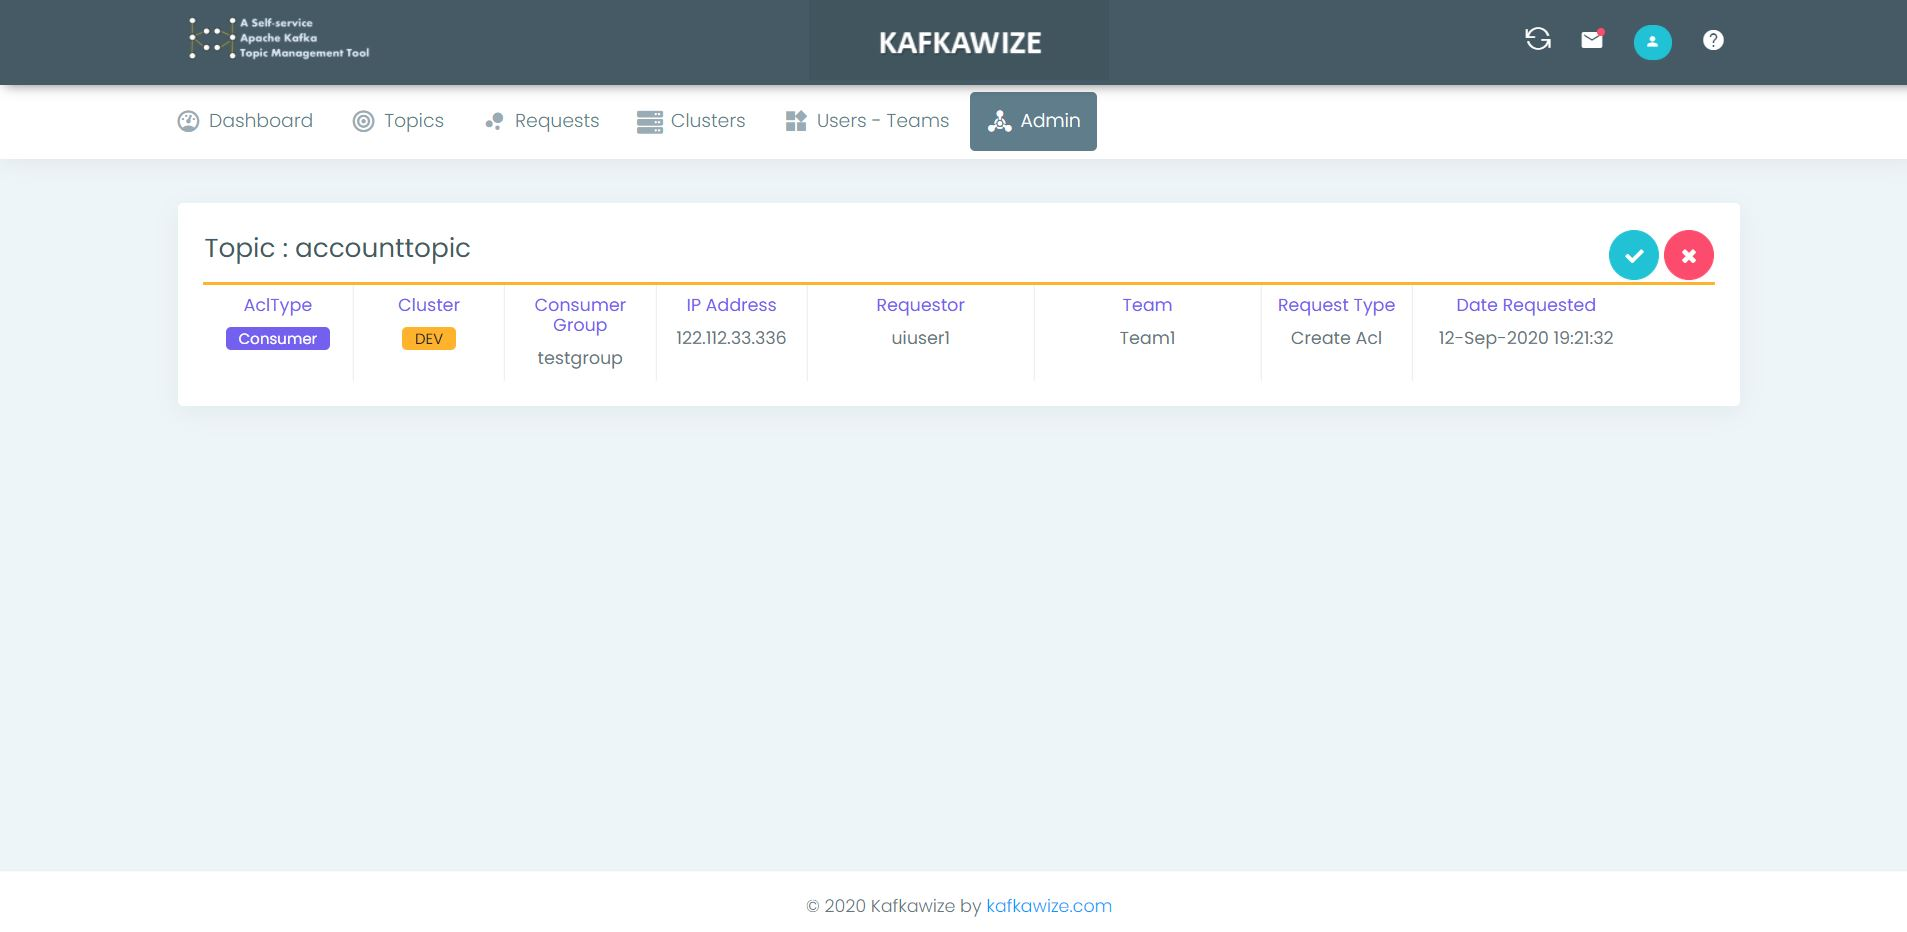
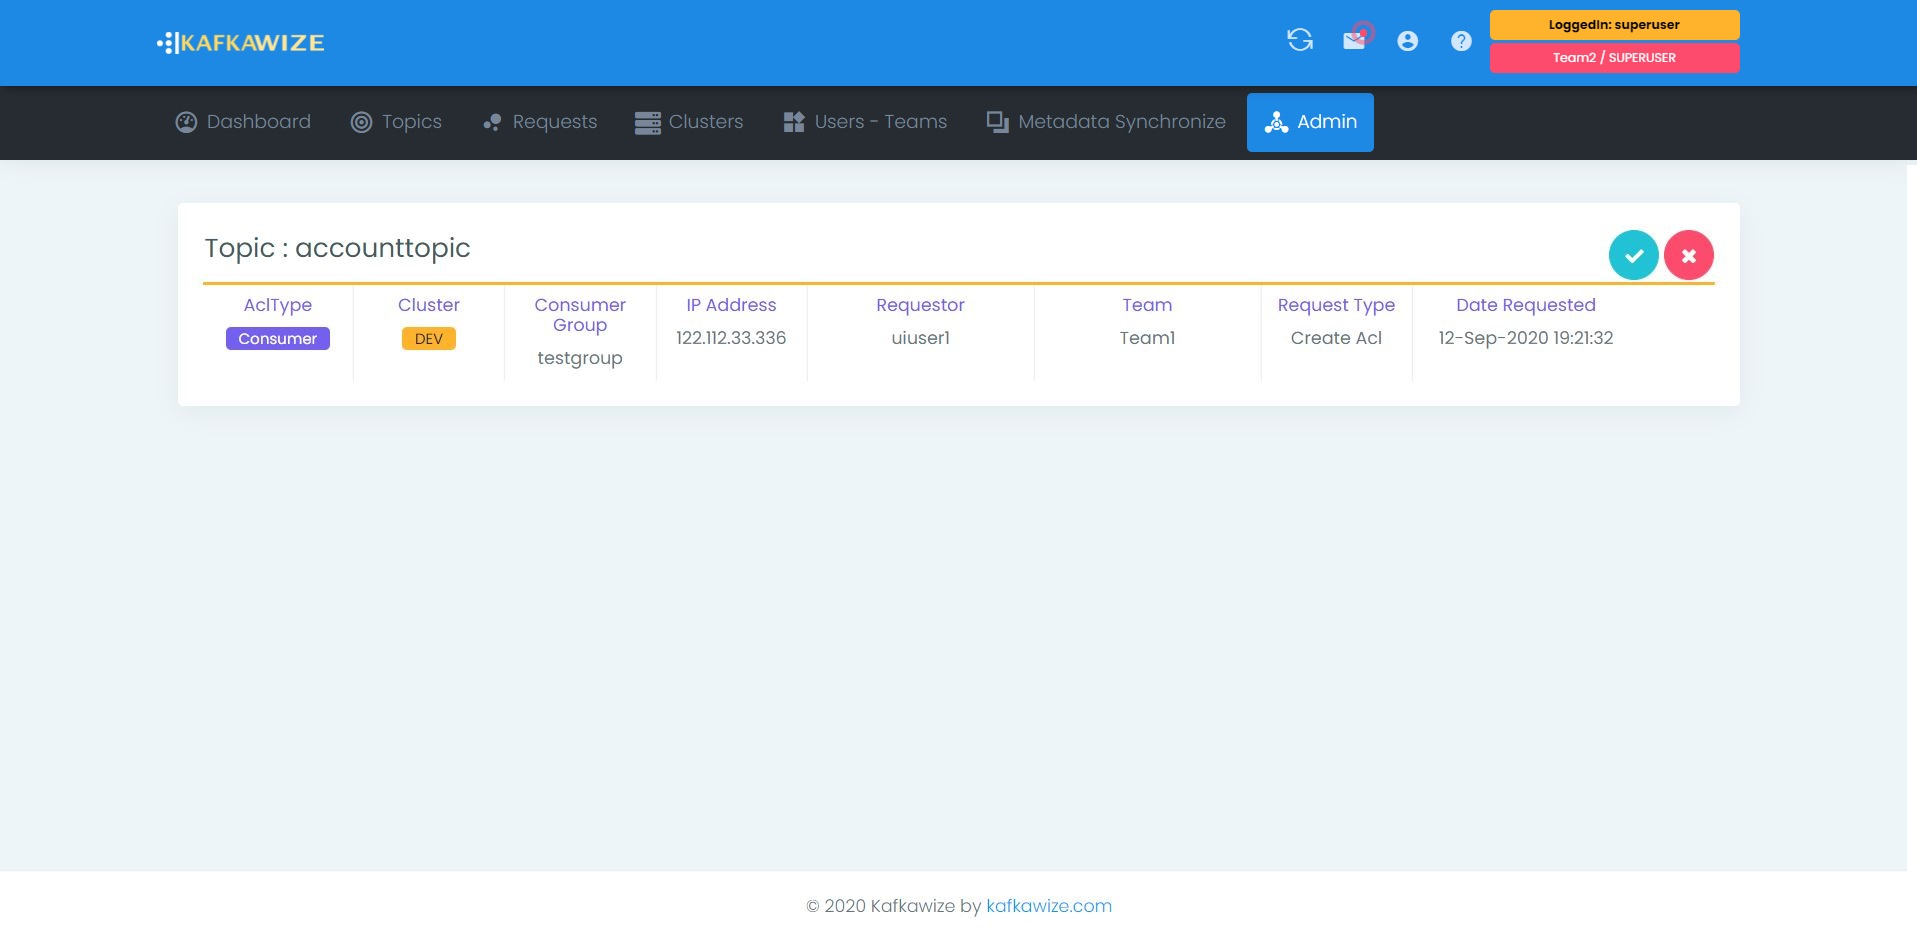
Update for 4.4 changes

diff --git a/3.1/docs/conf.py b/3.1/docs/conf.py
@@ -51,9 +51,9 @@ copyright = u'2018, Kafkawize'
 # built documents.
 #
 # The short X.Y version.
-version = '4.3'
+version = '4.4'
 # The full version, including alpha/beta/rc tags.
-release = '4.3'
+release = '4.4'
 
 # The language for content autogenerated by Sphinx. Refer to documentation
 # for a list of supported languages.

diff --git a/3.1/docs/releasenotes.rst b/3.1/docs/releasenotes.rst
@@ -1,6 +1,149 @@
 Release Notes
 =============
 
-Kafkawize 4.3 release notes
+Kafkawize 4.4
 
-Changes include UI and BE code improvements.
+1. Changes include improved User interface and few bug fixes.
+2. Metadata Synchronize option has been removed
+3. SSL connectivity to Kafka cluster has been removed
+4. Dashboard updated to show logged in Username, Team and Role
+5. Users can now only 4 environments DEV, TST, ACC and PRD. Hierarchy is defined in properties file.
+6. New model for UserInfo class is introduced to fix a password bug
+7. Password is not stored as encrypted text
+8. Validations bug in acls and topics requests
+9. Connect to Kafka clusters during start of Kafkawize
+
+----------------------------------------------------------------
+
+Kafkawize 4.3
+
+Changes include improved User interface and few bug fixes.
+
+----------------------------------------------------------------
+
+
+Kafkawize 4.2
+
+Changes include
+1. Critical bug fix - concurrent user access
+1. Ability to have environments DEV, TST, ACC and PRD
+2. Ability to request for topics in DTAP environments
+3. Ability to view topic overview and subscriptions in one page
+4. Ability to view topic partitions and replication factor of all environments in topic overview page
+5. Ability to view topics and their existence in all environments
+6. Updated dashboard to view your team topics
+
+----------------------------------------------------------------
+
+Kafkawize 4.1
+
+Changes include
+1. New Bootstrap 4 User interface with new appealing look and feel
+2. New UI/UX - for great user experience
+3. Few bug fixes
+1. Critical bug fix - concurrent user access
+
+----------------------------------------------------------------
+
+Kafkawize 4.0
+
+
+Changes include
+1. About 320 Unit tests. Above 85% code coverage.
+2. Integration tests for both stores Cassandra and Rdbms, with EmbeddedCassandra and Embedded H2 sql database
+3. New UI for viewing topics
+4. New UI for viewing acls of topic
+5. New UI for approving topics
+6. New UI for approving acls
+7. New UI for login screen
+8. New UI for Dashboard, showing cluster api status and kafka cluster statuses
+9. Added License key validation
+10. Bug fixes and code enhancements
+
+There are several other changes and upgraded dependencies which improved the code quality and efficiency.
+1. New Bootstrap 4 User interface with new appealing look and feel
+2. New UX - for great user experience
+3. Few bug fixes
+
+
+----------------------------------------------------------------
+
+Kafkawize 3.5
+
+Changes include
+1. New page (Admin-ServerConfig) to display server configuration - application properties
+2. Default replication factor, default partitions and default max partitions can be configured from Clusters page.
+3. Couple of minor bug fixes
+1. About 320 Unit tests. Above 85% code coverage.
+2. Integration tests for both stores Cassandra and Rdbms, with EmbeddedCassandra and Embedded H2 sql database
+3. New UI for viewing topics
+4. New UI for viewing acls of topic
+5. New UI for approving topics
+6. New UI for approving acls
+7. New UI for login screen
+8. New UI for Dashboard, showing cluster api status and kafka cluster statuses
+9. Added License key validation
+10. Bug fixes and code enhancements
+
+There are several other changes and upgraded dependencies which improved the code quality and efficiency.
+
+
+----------------------------------------------------------------
+
+Kafkawize 3.4
+
+Changes include
+
+1. Decline Topic requests
+2. Decline Acl requests
+3. Bug fix in creating topic request
+1. New page (Admin-ServerConfig) to display server configuration - application properties
+2. Default replication factor, default partitions and default max partitions can be configured from Clusters page.
+3. Couple of minor bug fixes
+
+
+----------------------------------------------------------------
+
+Kafkawize 3.3
+
+Changes include search features in almost all screens, bug fixes and code improvements.
+Changes include
+1. Decline Topic requests
+2. Decline Acl requests
+3. Bug fix in creating topic request
+
+----------------------------------------------------------------
+
+Kafkawize 3.2
+
+Changes include search features in almost all screens, bug fixes and code improvements.
+
+----------------------------------------------------------------
+
+Kafkawize 3.1
+
+New features:
+1. Support for RDBMS store like MySql to store meta information. 1.0 only supports Apache Cassandra. It is one of the important feature which will support many customers who already have an SQL based solution.
+Changing property db.storetype=rdbms/cassandra will make the difference.
+
+Bug fixes:
+
+There are few bugs which are fixed in Topic requests, acls and schema registry modules.
+
+Changes include search features in almost all screens, bug fixes and code improvements.
+
+----------------------------------------------------------------
+
+Kafkawize 2.0
+
+Kafkawize is a Kafka Topic management tool (A Web application) which automates the process of creating and browsing Kafka components, by introducing  roles/authorizations to users of various teams of an organization
+
+Changes include new feature Rdbms support for metastore, package restructuring, jpa/hibernate implementation, improved code quality and bug fixes.
+
+New features:
+1. Support for RDBMS store like MySql to store meta information. 1.0 only supports Apache Cassandra. It is one of the important feature which will support many customers who already have an SQL based solution.
+Changing property db.storetype=rdbms/cassandra will make the difference.
+
+Bug fixes:
+
+There are few bugs which are fixed in Topic requests, acls and schema registry modules.

diff --git a/3.1/docs/getting_started/getting_started.rst b/3.1/docs/getting_started/getting_started.rst
@@ -19,7 +19,7 @@ Prerequisites
 
 1 Download Kafkawize
 --------------------
-Download the latest version (4.3). https://kafkawize.com/download/
+Download the latest version (4.4). https://kafkawize.com/download/
 
 This bundle includes customized packages of both the apis kafkawizeuapi and kafkawizeclusterapi
 
@@ -57,7 +57,7 @@ Configure the application properties (src/main/resources) if port has to be chan
 
     mvn clean package
 
-This should create a jar (kafkawizeclusterapi-4.3.jar) in target dir.
+This should create a jar (kafkawizeclusterapi-4.4.jar) in target dir.
 
 Kafka connectivity between ClusterApi application and Kafka cluster, if SSL connection needs to be configured,
 configure "environment".connect_with_ssl_kafkacluster in application properties to true and configure the other keystore properties even.
@@ -152,7 +152,7 @@ If the custom.dbscripts.execution property is set to manual, all the scripts sho
 
     /kafkawize/kafkawize-web/src/main/resources/scripts/base/cassandra/insertdata.sql
 
-    (Scripts available in kafkawize-4.3.zip)
+    (Scripts available in kafkawize-4.4.zip)
 
 -   Above scripts will create tables and insert initial set of Environments, Teams and Users which you can delete anytime from UI.
 
@@ -179,7 +179,7 @@ If the custom.dbscripts.execution property is set to manual, all the scripts sho
 
     /kafkawize/kafkawize-web/src/main/resources/scripts/base/rdbms/insertdata.sql
 
-    (Scripts available in kafkawize-4.3.zip)
+    (Scripts available in kafkawize-4.4.zip)
 
 -   Above scripts will create tables and insert initial set of Environments, Teams and Users which you can delete anytime from UI.
 
@@ -187,19 +187,19 @@ Run maven command to create a runnable jar::
 
     mvn clean package
 
-This should create a jar in target dir (/kafkawize/target/kafkawize-4.3.jar).
+This should create a jar in target dir (/kafkawize/target/kafkawize-4.4.jar).
 
 7 Run KW and KWClusterApi
 -------------------------
 
 Run::
 
- java -jar kafkawizeclusterapi-4.3.jar
+ java -jar kafkawizeclusterapi-4.4.jar
 
 
 Run::
 
-    java -jar spring.config.location=classpath:/application.properties kafkawize-4.3.jar
+    java -jar spring.config.location=classpath:/application.properties kafkawize-4.4.jar
 
 If application is running, you can access UI from http://[host]:[port]/kafkawize
 

diff --git a/3.1/docs/profeatures/profeatures.rst b/3.1/docs/profeatures/profeatures.rst
@@ -99,6 +99,33 @@ SSL parameters should also be configured, when ssl encryption is enabled.
 SASL mechanism can be PLAIN or GSSAPI(Kerberos)
 
 
+Synchronize Metadata
+--------------------
+
+A situation where Kafka cluster already exists and would like to adapt Kafkawize in your organization, all the topics and acls need to have their teams/owners.
+
+This feature is possible with Synchronization of Topics or Acls.
+
+Topics
+~~~~~~
+After a environment is selected, topics are displayed, and a team can be assigned to it. And this action, team becomes the Owner team.
+
+.. image:: _static/images/SynchronizeTopics.JPG
+    :width: 500px
+    :align: center
+
+It is required to synchronize the topic team first with Base sync cluster first. Base sync cluster can be configured with property custom.syncdata.cluster in application properties.
+
+Acls
+~~~~
+After a environment is selected, Producer and Consumer Acls are displayed, and a team can be assigned to it. After this action, team becomes the Owner of that subscription (producer or consumer).
+
+.. image:: _static/images/SynchronizeAcls.JPG
+    :width: 500px
+    :align: center
+
+
+
 User Registration
 -----------------
 

diff --git a/3.1/docs/features/features.rst b/3.1/docs/features/features.rst
@@ -275,31 +275,6 @@ With this form a new team can be added by a SuperUser.
     :align: center
 
 
-Synchronize Metadata
---------------------
-
-A situation where Kafka cluster already exists and would like to adapt Kafkawize in your organization, all the topics and acls need to have their teams/owners.
-
-This feature is possible with Synchronization of Topics or Acls.
-
-Topics
-~~~~~~
-After a environment is selected, topics are displayed, and a team can be assigned to it. And this action, team becomes the Owner team.
-
-.. image:: _static/images/SynchronizeTopics.JPG
-    :width: 500px
-    :align: center
-
-It is required to synchronize the topic team first with Base sync cluster first. Base sync cluster can be configured with property custom.syncdata.cluster in application properties.
-
-Acls
-~~~~
-After a environment is selected, Producer and Consumer Acls are displayed, and a team can be assigned to it. After this action, team becomes the Owner of that subscription (producer or consumer).
-
-.. image:: _static/images/SynchronizeAcls.JPG
-    :width: 500px
-    :align: center
-
 
 Admin
 -----

diff --git a/3.1/docs/migrate.rst b/3.1/docs/migrate.rst
@@ -1,22 +1,4 @@
-Migration Kafkawize from 4.2 to 4.3
+Migration Kafkawize from 4.3 to 4.4
 ===================================
 
-There are few major changes in 4.3 which you need to look at.
-
-1. application.properties includes couple of new parameters.
-
-# default cluster to synchronize data
-custom.syncdata.cluster=DEV
-
-# order of envs
-custom.envs.order=DEV,TST,ACC,PRD
-custom.request.topics.envs=DEV,TST,ACC,PRD
-
-
-2.insertdata.sql is updated.
-
-partition parameter value changed from default.paritions to default.partitions.
-
-3. superuser cannot submit new topic requests and acl/subscription requests.
-
-4. clusterapi is updated. Make sure you clone the latest clusterapi https://github.com/muralibasani/kafkawizeclusterapi
+There are no database changes to migrate to 4.4.

diff --git a/3.1/docs/contactme.rst b/3.1/docs/contactme.rst
@@ -5,10 +5,6 @@ If you have any issues with kafkawize, please raise it in::
 
     https://github.com/muralibasani/kafkawize/issues
 
-If you want to post a topic or question, either you can post it in Stackoverflow or ::
-
-    https://kafkawize.com/community/
-
 You can also send me an email at info@kafkawize.com or kafkawize@gmail.com
 
 You can also use the form https://kafkawize.com/contact-me/

diff --git a/3.1/docs/usecases/usecases.rst b/3.1/docs/usecases/usecases.rst
@@ -7,8 +7,6 @@ Functionalities
 -   Search Topics with a User Interface
 -   View Acls of a topic
 -   View Producer and Consumer Teams of a topic
--   Synchronize Kafka topics with Teams
--   Synchronize Kafka acls with Teams
 -   Users, Teams and Roles based authorizations on features
 -   View server configuration (application properties)
 -   Audit of activities performed by users

diff --git a/3.1/docs/docker/docker.rst b/3.1/docs/docker/docker.rst
@@ -1,7 +1,7 @@
 On Docker
 =========
 
-Kafkawize can be run with Docker from version 4.3. You can download the docker images from https://hub.docker.com/u/kafkawize
+Kafkawize can be run with Docker from version 4.4. You can download the docker images from https://hub.docker.com/u/kafkawize
 
 Step 1 (Docker installation)
 ----------------------------
